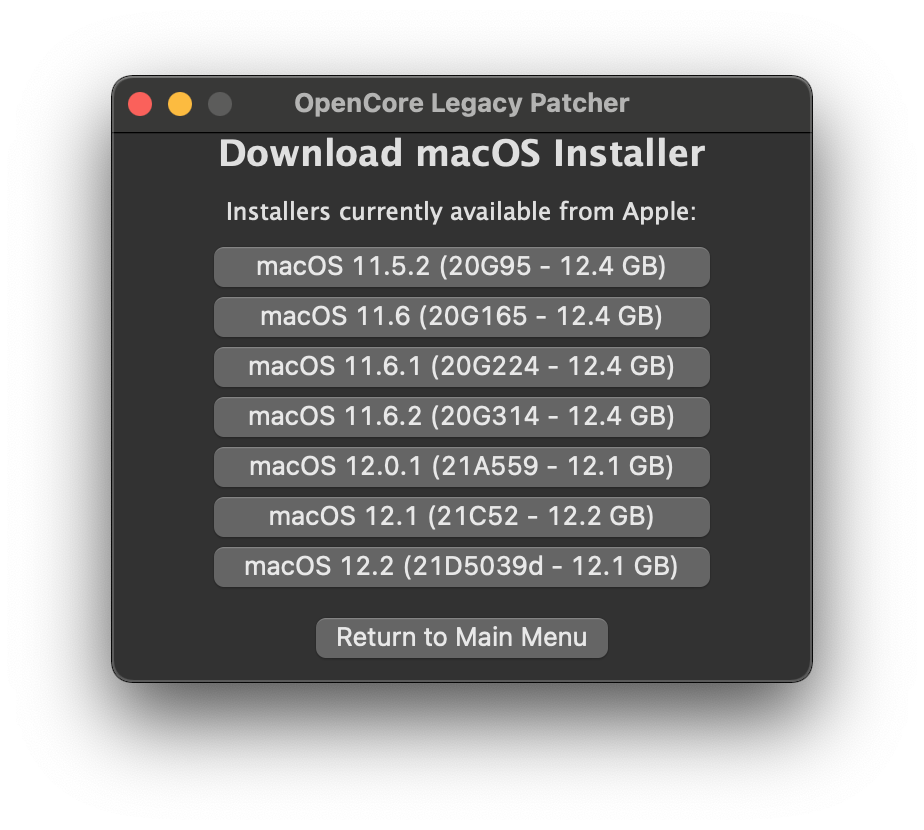
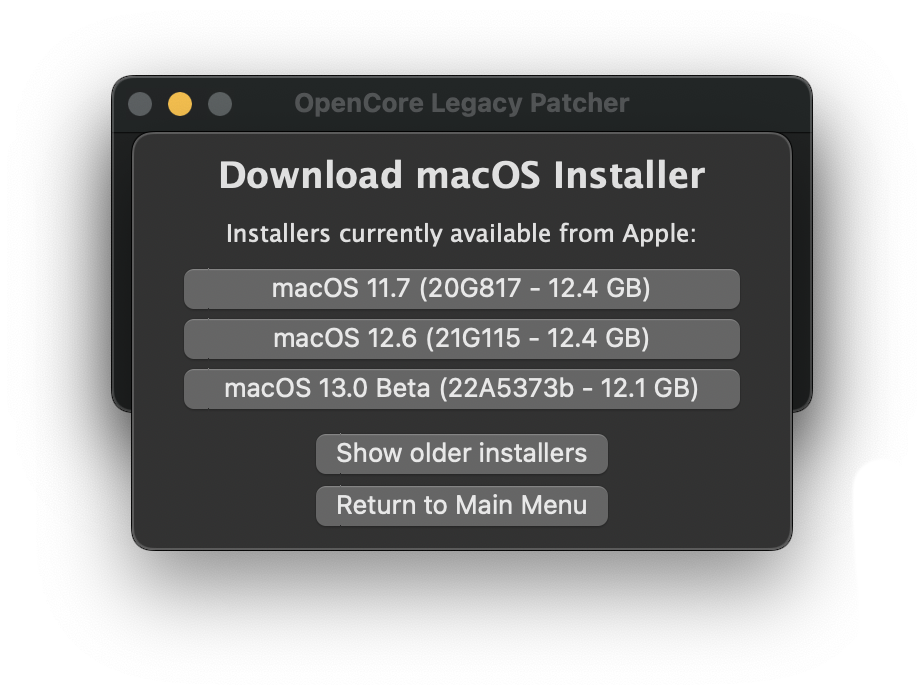
Docs: Update model page

diff --git a/docs/MODELS.md b/docs/MODELS.md
@@ -18,10 +18,12 @@ The below table will list all supported and unsupported functions of the patcher
 
 Regarding OS support, see below:
 
+* Machines listing `YES - Monterey and older` means they cannot run macOS Ventura at this time. Machines with only `YES` can run all of the supported macOS versions offered by OpenCore Legacy Patcher.
+
 | Support Entry | Supported OSes | Description | Comment |
 | :--- | :--- | :--- | :--- |
-| HostOS | macOS 10.9 - macOS 12 | Refers to OSes where running OpenCore-Patcher.app are supported | Supports 10.7+ if [Python 3.9 or higher](https://www.python.org/downloads/) is manually installed, simply run the `OpenCore-Patcher.command` located in the repo |
-| TargetOS | macOS 11 - macOS 12 | Refers to OSes that can be patched to run with OpenCore | May support 10.4 and newer (in a potentially broken state). No support provided. |
+| HostOS | macOS 10.9 - macOS 13 | Refers to OSes where running OpenCore-Patcher.app are supported | Supports 10.7+ if [Python 3.9 or higher](https://www.python.org/downloads/) is manually installed, simply run the `OpenCore-Patcher.command` located in the repo |
+| TargetOS | macOS 11 - macOS 13 | Refers to OSes that can be patched to run with OpenCore | May support 10.4 and newer (in a potentially broken state). No support provided. |
 
 ### MacBook
 
@@ -30,27 +32,30 @@ Regarding OS support, see below:
 | MacBook1,1 | Mid-2006 | <span style="color:red"> NO </span>  | 32-Bit CPU limitation |
 | MacBook2,1 | Late 2006 | ^^ | 32-Bit Firmware limitation |
 | MacBook3,1 | Late 2007 | ^^ | ^^ |
-| MacBook4,1 | Early 2008 | <span style="color:#30BCD5"> YES </span> | - No GPU Acceleration in Mavericks and newer<br/>- No Keyboard and Trackpad<br/>- No USB |
-| MacBook5,1 | Late 2008 | ^^ | - GPU Acceleration in Public Beta, see current issues ([#108](https://github.com/dortania/OpenCore-Legacy-Patcher/issues/108))<br/> |
-| MacBook5,2 | Early 2009 | ^^ | - GPU Acceleration in Public Beta, see current issues ([#108](https://github.com/dortania/OpenCore-Legacy-Patcher/issues/108))<br/>- Trackpad is recognized as mouse |
-| MacBook6,1 | Late 2009 | ^^ | - GPU Acceleration in Public Beta, see current issues ([#108](https://github.com/dortania/OpenCore-Legacy-Patcher/issues/108))<br/> |
+| MacBook4,1 | Early 2008 | <span style="color:#30BCD5"> YES - Monterey and older</span> | - No GPU Acceleration in Mavericks and newer<br/>- No Keyboard and Trackpad<br/>- No USB |
+| MacBook5,1 | Late 2008 | ^^ | - GPU Acceleration in Public Beta, see current issues ([#108](https://github.com/dortania/OpenCore-Legacy-Patcher/issues/108))<br/> - Supports macOS Monterey and older ([Ventura support in development](https://github.com/dortania/OpenCore-Legacy-Patcher/issues/998))|
+| MacBook5,2 | Early 2009 | ^^ | ^^ |
+| MacBook6,1 | Late 2009 | ^^ | ^^ |
 | MacBook7,1 | Mid-2010 | ^^ | ^^ |
-| MacBook8,1 | Mid-2015 | ^^ | <span style="color:green"> Everything is supported</span> |
+| MacBook8,1 | Mid-2015 | <span style="color:#30BCD5"> YES </span> | <span style="color:green"> Everything is supported</span> |
+| MacBook9,1 | Early 2016 | ^^ | ^^ |
 
 ### MacBook Air
 
 | SMBIOS | Year | Supported | Comment |
 | :--- | :--- | :--- | :--- |
 | MacBookAir1,1 | Early 2008 | <span style="color:red"> NO </span> | Requires SSE4.1 CPU |
-| MacBookAir2,1 | Late 2008 |<span style="color:#30BCD5"> YES </span> | GPU Acceleration in Public Beta, see current issues ([#108](https://github.com/dortania/OpenCore-Legacy-Patcher/issues/108)) |
+| MacBookAir2,1 | Late 2008 | <span style="color:#30BCD5"> YES - Monterey and older</span> | - GPU Acceleration in Public Beta, see current issues ([#108](https://github.com/dortania/OpenCore-Legacy-Patcher/issues/108))<br/> - Supports macOS Monterey and older ([Ventura support in development](https://github.com/dortania/OpenCore-Legacy-Patcher/issues/998) )|
 | MacBookAir3,1 | Late 2010 | ^^ | ^^ |
 | MacBookAir3,2 | ^^ | ^^ | ^^ |
 | MacBookAir4,1 | Mid-2011 | ^^ | ^^ |
 | MacBookAir4,2 | ^^ | ^^ | ^^ |
-| MacBookAir5,1 | Mid-2012 |^^ | <span style="color:green"> Everything is supported</span> |
+| MacBookAir5,1 | Mid-2012 | <span style="color:#30BCD5"> YES </span> | <span style="color:green"> Everything is supported</span> |
 | MacBookAir5,2 | ^^ | ^^ | ^^ |
 | MacBookAir6,1 | Mid-2013, Early 2014 | ^^ | ^^ |
 | MacBookAir6,2 | ^^ | ^^ | ^^ |
+| MacBookAir7,1 | Early-2015, 2017 | ^^ | ^^ |
+| MacBookAir7,2 | ^^ | ^^ | ^^ |
 
 ### MacBook Pro
 
@@ -61,7 +66,7 @@ Regarding OS support, see below:
 | MacBookPro2,1 | Late 2006 | ^^ | 32-Bit Firmware limitation |
 | MacBookPro2,2 | Late 2006 | ^^ | ^^ |
 | MacBookPro3,1 | Mid-2007 | ^^ | Requires SSE4.1 CPU |
-| MacBookPro4,1 | Early 2008 | <span style="color:#30BCD5"> YES </span> | GPU Acceleration in Public Beta, see current issues ([#108](https://github.com/dortania/OpenCore-Legacy-Patcher/issues/108)) |
+| MacBookPro4,1 | Early 2008 | <span style="color:#30BCD5"> YES - Monterey and older</span> | - GPU Acceleration in Public Beta, see current issues ([#108](https://github.com/dortania/OpenCore-Legacy-Patcher/issues/108))<br/> - Supports macOS Monterey and older ([Ventura support in development](https://github.com/dortania/OpenCore-Legacy-Patcher/issues/998) )|
 | MacBookPro5,1 | Late 2008 | ^^ | ^^ |
 | MacBookPro5,2 | Early 2009 | ^^ | ^^ |
 | MacBookPro5,3 | Mid-2009 | ^^ | ^^ |
@@ -73,13 +78,19 @@ Regarding OS support, see below:
 | MacBookPro8,1 | Early 2011 | ^^ | ^^ |
 | MacBookPro8,2 | ^^ | ^^ | ^^ |
 | MacBookPro8,3 | ^^ | ^^ | ^^ |
-| MacBookPro9,1 | Mid-2012 | ^^ | <span style="color:green"> Everything is supported</span> |
+| MacBookPro9,1 | Mid-2012 | <span style="color:#30BCD5"> YES </span> | <span style="color:green"> Everything is supported</span> |
 | MacBookPro9,2 | ^^ | ^^ | ^^ |
 | MacBookPro10,1 | Mid-2012, Early 2013 | ^^ | ^^ |
 | MacBookPro10,2 | Late 2012, Early 2013 | ^^ | ^^ |
 | MacBookPro11,1 | Late 2013, Mid-2014 | ^^ | ^^ |
 | MacBookPro11,2 | ^^ | ^^ | ^^ |
 | MacBookPro11,3 | ^^ | ^^ | ^^ |
+| MacBookPro11,4 | Mid 2015 | ^^ | ^^ |
+| MacBookPro11,5 | ^^ | ^^ | ^^ |
+| MacBookPro12,1 | Early 2015 | ^^ | ^^ |
+| MacBookPro13,1 | Late 2016 | ^^ | ^^ |
+| MacBookPro13,2 | ^^ | ^^ | ^^ |
+| MacBookPro13,3 | ^^ | ^^ | ^^ |
 
 ### Mac mini
 
@@ -87,13 +98,14 @@ Regarding OS support, see below:
 | :--- | :--- | :--- | :--- |
 | Macmini1,1 | Early 2006 | <span style="color:red"> NO </span> | 32-Bit CPU limitation |
 | Macmini2,1 | Mid-2007 | ^^ | 32-Bit Firmware limitation |
-| Macmini3,1 | Early 2009 | <span style="color:#30BCD5"> YES </span> | GPU Acceleration in Public Beta, see current issues ([#108](https://github.com/dortania/OpenCore-Legacy-Patcher/issues/108)) |
+| Macmini3,1 | Early 2009 | <span style="color:#30BCD5"> YES - Monterey and older</span> | - GPU Acceleration in Public Beta, see current issues ([#108](https://github.com/dortania/OpenCore-Legacy-Patcher/issues/108)) <br/> - Supports macOS Monterey and older ([Ventura support in development](https://github.com/dortania/OpenCore-Legacy-Patcher/issues/998) ) |
 | Macmini4,1 | Mid-2010 | ^^ | ^^ |
 | Macmini5,1 | Mid-2011 | ^^ | ^^ |
 | Macmini5,2 | ^^ | ^^ | ^^ |
 | Macmini5,3 | ^^ | ^^ | ^^ |
-| Macmini6,1 | Late 2012 | ^^ | <span style="color:green"> Everything is supported</span> |
+| Macmini6,1 | Late 2012 | <span style="color:#30BCD5"> YES </span> | <span style="color:green"> Everything is supported</span> |
 | Macmini6,2 | ^^ | ^^ | ^^ |
+| Macmini7,1 | Mid-2014 | ^^ | ^^ |
 
 ### iMac
 
@@ -104,23 +116,26 @@ Regarding OS support, see below:
 | iMac5,1 | Late 2006 | ^^ | 32-Bit Firmware limitation |
 | iMac5,2 | ^^ | ^^ | ^^ |
 | iMac6,1 | ^^ | ^^ | ^^ |
-| iMac7,1 | Mid-2007 | <span style="color:#30BCD5"> YES </span> | - Requires an [SSE4.1 CPU Upgrade](https://lowendmac.com/2018/penryn-t9300-9500-cpu-upgrades-for-the-2007-imac/)<br/>- GPU Acceleration in Public Beta, see current issues ([#108](https://github.com/dortania/OpenCore-Legacy-Patcher/issues/108))<br/>- Stock Bluetooth 2.0 card non-functional  |
-| iMac8,1 | Early 2008 | ^^ | - GPU Acceleration in Public Beta, see current issues ([#108](https://github.com/dortania/OpenCore-Legacy-Patcher/issues/108))) |
+| iMac7,1 | Mid-2007 | <span style="color:#30BCD5"> YES - Monterey and older</span> | - Requires an [SSE4.1 CPU Upgrade](https://lowendmac.com/2018/penryn-t9300-9500-cpu-upgrades-for-the-2007-imac/)<br/>- GPU Acceleration in Public Beta, see current issues ([#108](https://github.com/dortania/OpenCore-Legacy-Patcher/issues/108))<br/>- Stock Bluetooth 2.0 card non-functional<br/> - Supports macOS Monterey and older ([Ventura support in development](https://github.com/dortania/OpenCore-Legacy-Patcher/issues/998) ) |
+| iMac8,1 | Early 2008 | ^^ | - GPU Acceleration in Public Beta, see current issues ([#108](https://github.com/dortania/OpenCore-Legacy-Patcher/issues/108)))<br/> - Supports macOS Monterey and older ([Ventura support in development](https://github.com/dortania/OpenCore-Legacy-Patcher/issues/998) )|
 | iMac9,1 | Early 2009 | ^^ | ^^ |
-| iMac10,1 | Late 2009 | ^^ | - GPU is socketed, [recommend upgrading to Metal GPU](https://forums.macrumors.com/threads/2011-imac-graphics-card-upgrade.1596614/?post=17425857#post-17425857) <br/>- GPU Acceleration in Public Beta, see current issues ([#108](https://github.com/dortania/OpenCore-Legacy-Patcher/issues/108)) |
+| iMac10,1 | Late 2009 | ^^ | - GPU is socketed, [recommend upgrading to Metal GPU](https://forums.macrumors.com/threads/2011-imac-graphics-card-upgrade.1596614/?post=17425857#post-17425857) <br/>- GPU Acceleration in Public Beta, see current issues ([#108](https://github.com/dortania/OpenCore-Legacy-Patcher/issues/108)) <br/> - Supports macOS Monterey and older ([Ventura support in development](https://github.com/dortania/OpenCore-Legacy-Patcher/issues/998) )|
 | iMac11,1 | ^^ | ^^ | ^^ |
 | iMac11,2 | Mid-2010 | ^^ | ^^ |
 | iMac11,3 | ^^ | ^^ | ^^ |
 | iMac12,1 | Mid-2011 | ^^ | ^^ |
 | iMac12,2 | ^^ | ^^ | ^^ |
-| iMac13,1 | Late 2012 | ^^ | <span style="color:green"> Everything is supported</span> |
+| iMac13,1 | Late 2012 | <span style="color:#30BCD5"> YES </span> | <span style="color:green"> Everything is supported</span> |
 | iMac13,2 | ^^ | ^^ | ^^ |
 | iMac13,3 | ^^ | ^^ | ^^ |
 | iMac14,1 | Late 2013 | ^^ | ^^ |
 | iMac14,2 | ^^ | ^^ | ^^ |
 | iMac14,3 | ^^ | ^^ | ^^ |
 | iMac14,4 | Mid-2014 | ^^ | ^^ |
-| iMac15,1 | Late 2014, Mid-2015 | ^^ | ^^ | 
+| iMac15,1 | Late 2014, Mid-2015 | ^^ | ^^ |
+| iMac16,1 | Late 2014, Mid-2015 | ^^ | ^^ |
+| iMac16,2 | Late 2014, Mid-2015 | ^^ | ^^ |
+| iMac17,1 | Late 2015, Early-2016 | ^^ | ^^ |
 
 * For iMac10,1 through iMac12,x, we highly recommend users upgrade the GPU to a Metal supported model. See here for more information: [iMac late 2009 to mid-2011 Graphics Card Upgrade Guide](https://forums.macrumors.com/threads/2011-imac-graphics-card-upgrade.1596614/?post=17425857#post-17425857)
 
@@ -130,16 +145,17 @@ Regarding OS support, see below:
 | :--- | :--- | :--- | :--- |
 | MacPro1,1 | Mid-2006 | <span style="color:red"> NO </span> | 32-Bit Firmware limitation |
 | MacPro2,1 | Mid-2007 | ^^ | ^^ |
-| MacPro3,1 | Early 2008 | <span style="color:#30BCD5"> YES </span> | - Potential boot issues with built-in USB 1.1 ports (recommend using a USB 2.0 hub or dedicated USB PCIe controller)<br/>- Potential boot issues with stock Bluetooth card, recommend removing to avoid kernel panics |
-| MacPro4,1 | Early 2009 | ^^ | <span style="color:green"> Everything is supported as long as GPU is Metal capable </span> |
+| MacPro3,1 | Early 2008 | <span style="color:#30BCD5"> YES - Monterey and older</span> | - Potential boot issues with built-in USB 1.1 ports (recommend using a USB 2.0 hub or dedicated USB PCIe controller) <br/>- Potential boot issues with stock Bluetooth card, recommend removing to avoid kernel panics |
+| MacPro4,1 | Early 2009 | ^^ | - Everything is supported as long as GPU is Metal capable <br/> - Supports macOS Monterey and older ([Ventura support in development](https://github.com/dortania/OpenCore-Legacy-Patcher/issues/998) ) |
 | MacPro5,1 | Mid-2010, Mid-2012 | ^^ | ^^ |
+| MacPro6,1 | Late 2013 | <span style="color:red"> NO </span> | Unsupported, [currently in active development](https://github.com/dortania/OpenCore-Legacy-Patcher/issues/1009) |
 
 ### Xserve
 
 | SMBIOS | Year | Supported | Comment |
 | :--- | :--- | :--- | :--- |
 | Xserve1,1 | Mid-2006 | <span style="color:red"> NO </span> | 32-Bit Firmware limitation |
-| Xserve2,1 | Early 2008 | <span style="color:#30BCD5"> YES </span> | <span style="color:green"> Everything is supported as long as GPU is Metal capable </span> |
+| Xserve2,1 | Early 2008 | <span style="color:#30BCD5"> YES - Monterey and older</span> | - Everything is supported as long as GPU is Metal capable <br/> - Supports macOS Monterey and older ([Ventura support in development](https://github.com/dortania/OpenCore-Legacy-Patcher/issues/998) )|
 | Xserve3,1 | Early 2009 | ^^ | ^^ |
 
 # Once you've verified your hardware is supported, head to [Download and build macOS Installers](./INSTALLER.md)

diff --git a/docs/INSTALLER.md b/docs/INSTALLER.md
@@ -22,19 +22,13 @@ First we'll want to select the "Create macOS Installer" button. This will presen
 
 For this example, we'll assume you'll need an installer. Selecting this option will download Apple's Installer Catalogs and build a list for you to choose:
 
-| Downloading | Listed Installers |
-| :--- | :--- |
-| ![OCLP GUI Installer Download Catalog](../images/OCLP-GUI-Installer-Download-Catalog.png) | ![OCLP GUI Installer Download Listed Products](../images/OCLP-GUI-Installer-Download-Listed-Products.png) |
+| Downloading | Listed Installers | Unsupported Installer |
+| :--- | :--- | :--- |
+| ![OCLP GUI Installer Download Catalog](../images/OCLP-GUI-Installer-Download-Catalog.png) | ![OCLP GUI Installer Download Listed Products](../images/OCLP-GUI-Installer-Download-Listed-Products.png) | ![](../images/OCLP-GUI-Installer-Download-Unsupported.png)
 
-Since the patcher officially supports Big Sur and newer for patching, only those entires will be shown. For ourselves, we'll select 12.1 as that's the latest public release at the time of writing. This will download and install the macOS installer to your applications folder.
+Since the patcher officially supports Big Sur and newer for patching, only those entires will be shown. For ourselves, we'll select macOS 12 as that's the latest public release at the time of writing. This will download and install the macOS installer to your applications folder.
 
-::: warning
-
-With the release of the M2 MacBooks, Apple made an Apple Silicon only installer labeled "macOS 12.4 (21F2092 - 11.7GB)". Trying to boot this on Intel will not work.
-
-Instead, download "macOS 12.4 (21F79 - 12.1GB)" or newer.
-
-:::
+* Note that some machines (namely 2012 and older) may not be currently supported on macOS Ventura. If you see this prompt, you'll need to use an older version of macOS.
 
 | Downloading the Installer | Requesting to install | Finished Installing |
 | :--- | :--- | :--- |

diff --git a/docs/POST-INSTALL.md b/docs/POST-INSTALL.md
@@ -41,9 +41,9 @@ Note: Machines with non-Metal GPUs cannot enable SIP in Big Sur either, due to h
 | :--- | :--- | :--- |
 | ![](../images/OCLP-GUI-Settings-SIP-Enabled.png) | ![](../images/OCLP-GUI-Settings-SIP-Root-Patch.png) | ![](../images/OCLP-GUI-Settings-SIP-Disabled.png) |
 
-:::warning 
+:::warning
 
-If you're unsure whether you should enable SIP, leave it as-is. Systems where you have already ran the Post Install Root Patching cannot enable SIP without potentially breaking the current install. 
+If you're unsure whether you should enable SIP, leave it as-is. Systems where you have already ran the Post Install Root Patching cannot enable SIP without potentially breaking the current install.
 
 :::
 
@@ -69,7 +69,7 @@ In OCLP v0.4.5 a new indicator was added to help users to see if, when and on wh
 
 ### Running Post Install patches manually
 
-If you're using OCLP v0.4.3 or earlier, or need to run the patcher manually, you can do so with the app. There is no harm in trying to run the Patcher, as without compatible hardware, nothing will be done. You can see below on whether your hardware needs root volume patching or not. 
+If you're using OCLP v0.4.3 or earlier, or need to run the patcher manually, you can do so with the app. There is no harm in trying to run the Patcher, as without compatible hardware, nothing will be done. You can see below on whether your hardware needs root volume patching or not.
 
 | Listing Patches | Patching Finished |
 | :--- | :--- |
@@ -83,6 +83,8 @@ With OpenCore Legacy Patcher versions prior to v0.4.4, Root Patching requires a 
 * [OpenCore Legacy Patcher releases](https://github.com/dortania/OpenCore-Legacy-Patcher/releases/latest)
 
 :::
+
+Below entires represent GPUs no longer natively supported, ie. requiring root volume patch with OpenCore Legacy Patcher:
 
 :::details Unsupported GPUs in macOS Big Sur
 
